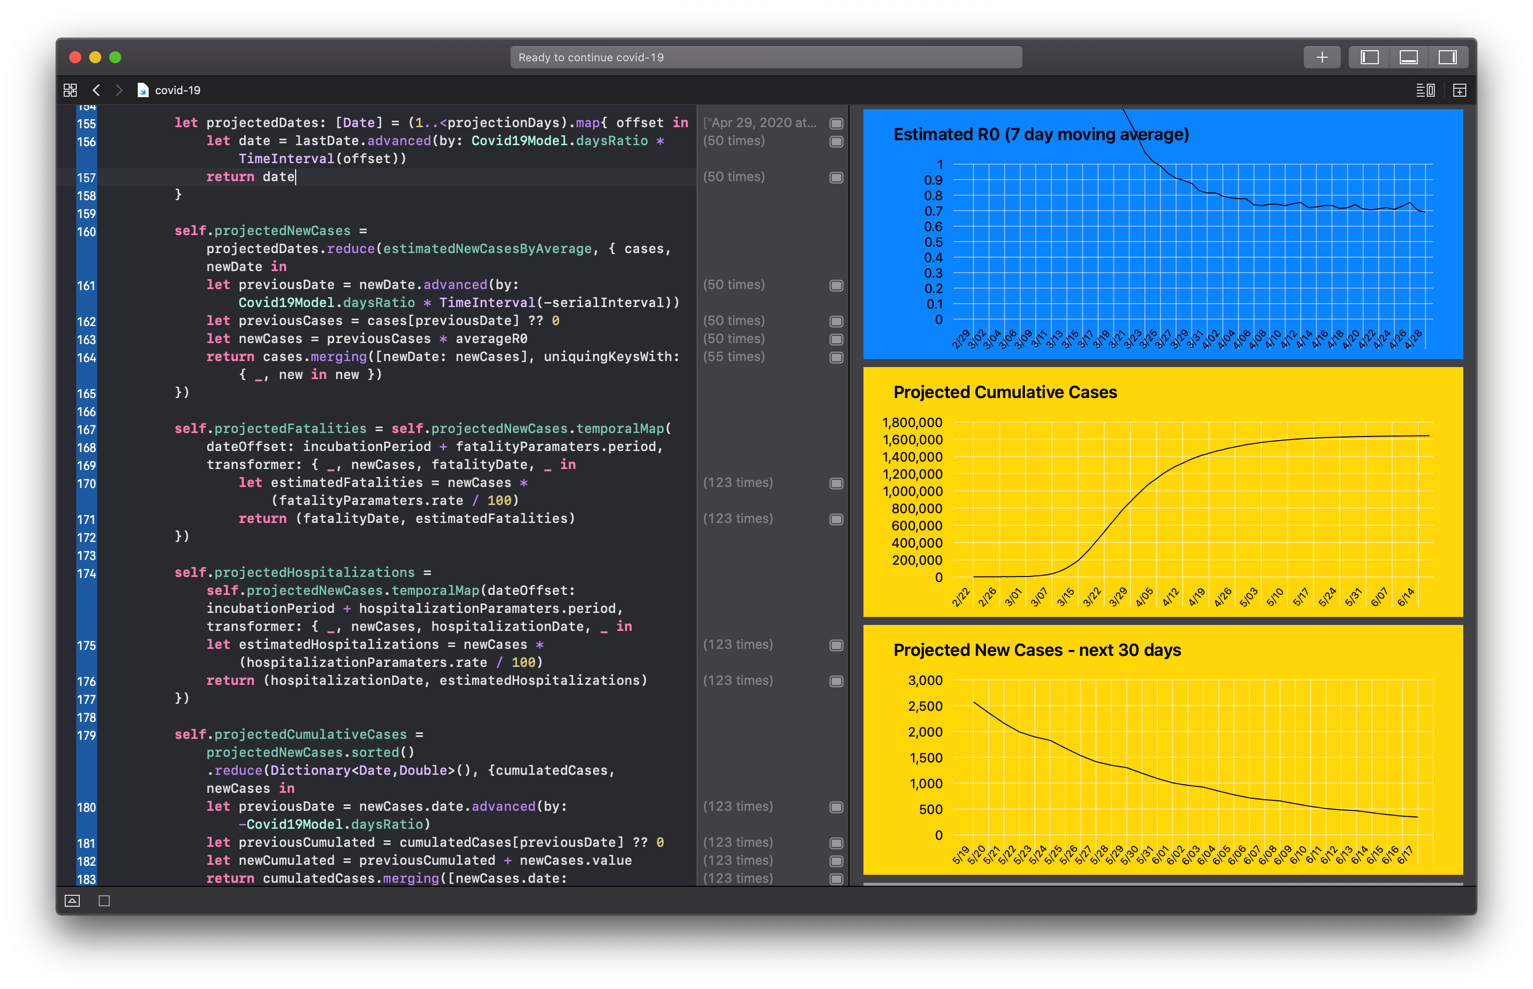
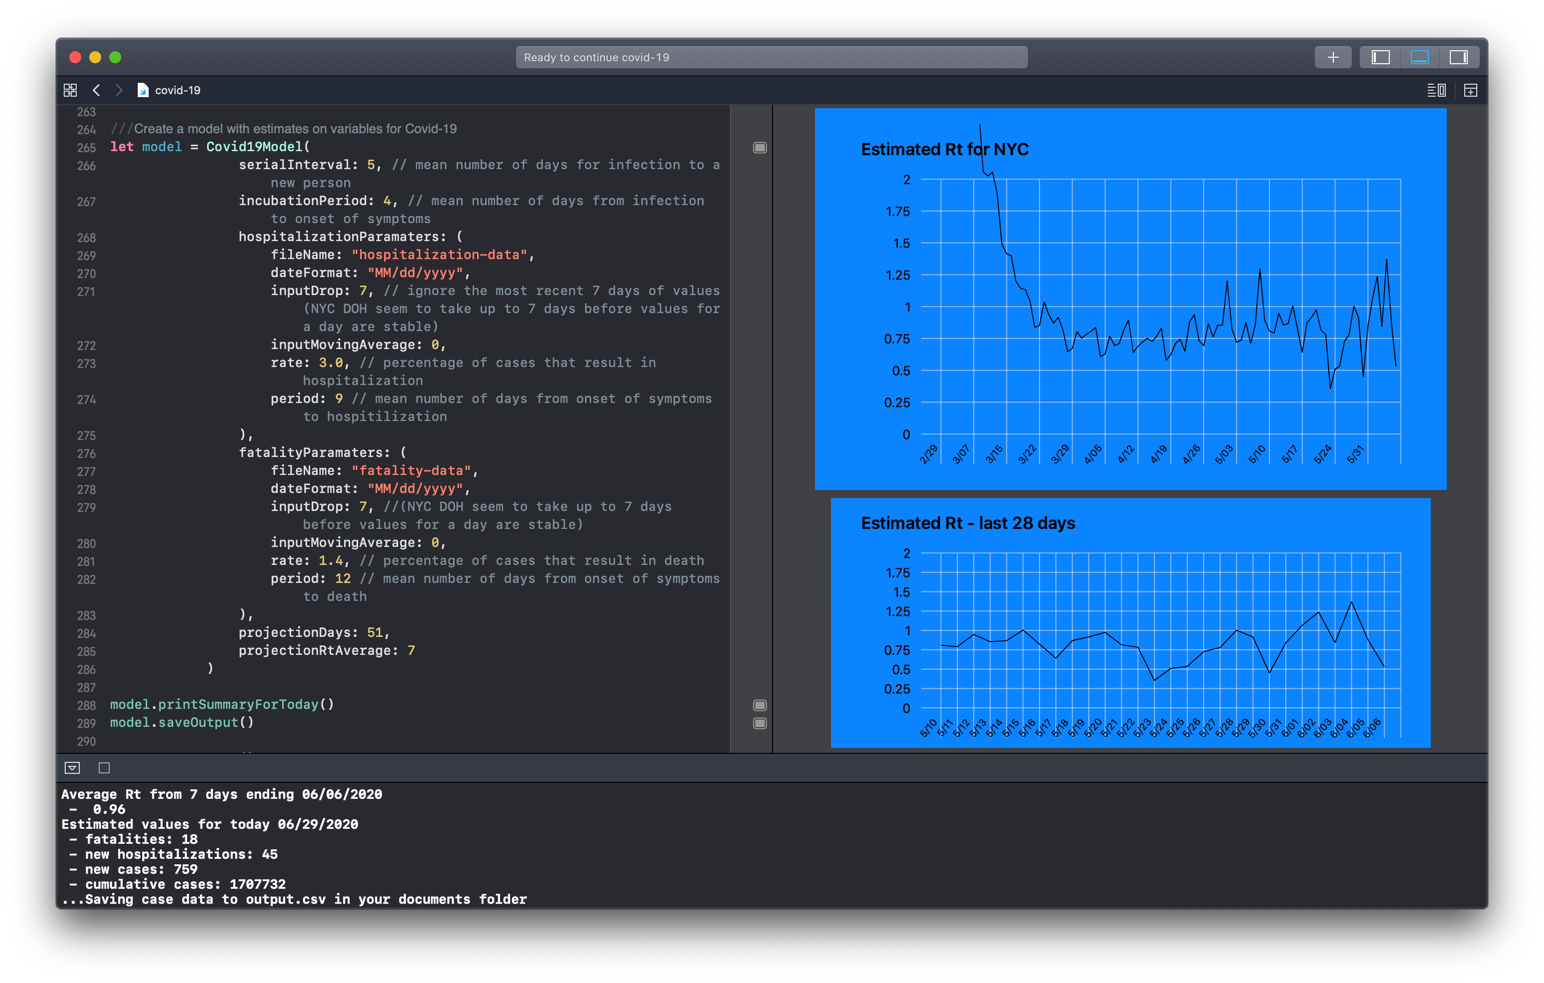
Update naming from R0 to Rt

diff --git a/covid-19.playground/Contents.swift b/covid-19.playground/Contents.swift
@@ -16,11 +16,11 @@ struct Covid19Model {
     let estimatedNewCasesByHospitalizationsRate: [Date: Double]
     let estimatedNewCasesByAverage: [Date: Double]
     
-    let estimatedR0ByFatalityRate: [Date: Double]
-    let estimatedR0ByHospitalizationsRate: [Date: Double]
-    let estimatedR0ByAverage: [Date: Double]
+    let estimatedRtByFatalityRate: [Date: Double]
+    let estimatedRtByHospitalizationsRate: [Date: Double]
+    let estimatedRtByAverage: [Date: Double]
     
-    let r0: [Date: Double]
+    let rt: [Date: Double]
     let projectedNewCases: [Date: Double]
     let projectedCumulativeCases: [Date: Double]
     let projectedFatalities: [Date: Double]
@@ -34,10 +34,10 @@ struct Covid19Model {
     // number of seconds in a day
     static let daysRatio: TimeInterval = 24*60*60
     
-    static func r0Estimator(dateToday: Date, newCasesToday: Double, dateFuture: Date, newCasesFuture: Double?) -> (Date, Double)? {
+    static func rtEstimator(dateToday: Date, newCasesToday: Double, dateFuture: Date, newCasesFuture: Double?) -> (Date, Double)? {
         if let newCasesFuture = newCasesFuture, !newCasesToday.isZero {
-            let r0 = newCasesFuture / newCasesToday
-            return (dateToday, r0)
+            let rt = newCasesFuture / newCasesToday
+            return (dateToday, rt)
         }
         return nil
     }
@@ -60,7 +60,7 @@ struct Covid19Model {
          hospitalizationParamaters: Paramaters,
          fatalityParamaters: Paramaters,
          projectionDays: Int = 30,
-         projectionR0Average: Int = 7) {
+         projectionRtAverage: Int = 7) {
                 
         self.hospitalizationParamaters = hospitalizationParamaters
         self.fatalityParamaters = fatalityParamaters
@@ -129,31 +129,31 @@ struct Covid19Model {
             return (infectionDate, newCases)
         })
         
-        self.estimatedR0ByFatalityRate = estimatedNewCasesByFatalityRate.temporalMap(
+        self.estimatedRtByFatalityRate = estimatedNewCasesByFatalityRate.temporalMap(
             dateOffset: serialInterval,
-            transformer: Covid19Model.r0Estimator
+            transformer: Covid19Model.rtEstimator
         )
         
-        self.estimatedR0ByHospitalizationsRate = estimatedNewCasesByHospitalizationsRate.temporalMap(
+        self.estimatedRtByHospitalizationsRate = estimatedNewCasesByHospitalizationsRate.temporalMap(
             dateOffset: serialInterval,
-            transformer: Covid19Model.r0Estimator
+            transformer: Covid19Model.rtEstimator
         )
         
         self.estimatedNewCasesByAverage = temporalMerger(first: self.estimatedNewCasesByFatalityRate, second: self.estimatedNewCasesByHospitalizationsRate, merger: Covid19Model.doubleDoubleMerger)
         
-        self.estimatedR0ByAverage = temporalMerger(first: self.estimatedR0ByFatalityRate, second: self.estimatedR0ByHospitalizationsRate, merger: Covid19Model.doubleDoubleMerger)
+        self.estimatedRtByAverage = temporalMerger(first: self.estimatedRtByFatalityRate, second: self.estimatedRtByHospitalizationsRate, merger: Covid19Model.doubleDoubleMerger)
                 
-        self.r0 = self.estimatedR0ByAverage
+        self.rt = self.estimatedRtByAverage
         
-        let recentR0 = self.r0.sorted().suffix(projectionR0Average)
-        let averageR0 = recentR0.map({ $0.value }).reduce(0.0, + ) / Double(projectionR0Average)
+        let recentRt = self.rt.sorted().suffix(projectionRtAverage)
+        let averageRt = recentRt.map({ $0.value }).reduce(0.0, + ) / Double(projectionRtAverage)
         
-        guard let lastDate = recentR0.last?.date else {
-            fatalError("no recent r0 dates avaiable")
+        guard let lastDate = recentRt.last?.date else {
+            fatalError("no recent Rt dates avaiable")
         }
         
-        print("Average R0 from \(projectionR0Average) days ending \(self.dateFormatter.string(from: lastDate))")
-        print(" - ", Double(Int(averageR0*100))/100)
+        print("Average Rt from \(projectionRtAverage) days ending \(self.dateFormatter.string(from: lastDate))")
+        print(" - ", Double(Int(averageRt*100))/100)
         
         let projectedDates: [Date] = (1..<projectionDays).map{ offset in
             let date = lastDate.advanced(by: Covid19Model.daysRatio * TimeInterval(offset))
@@ -164,7 +164,7 @@ struct Covid19Model {
 
             let previousDate = newDate.advanced(by: Covid19Model.daysRatio * TimeInterval(-serialInterval))
             let previousCases = cases[previousDate] ?? 0
-            let newCases = previousCases * averageR0
+            let newCases = previousCases * averageRt
             return cases.merging([newDate: newCases], uniquingKeysWith: { _, new in new })
         })
         
@@ -230,23 +230,23 @@ struct Covid19Model {
         let merged = self.projectedNewCases.temporalMerge(other: self.projectedCumulativeCases, merger: { new, cumulative in
             (new: new, cumulative: cumulative)
         })
-        .temporalMerge(other: self.r0, merger: { cases, r0 in
-            (new: cases?.new, cumulative: cases?.cumulative, r0: r0)
+        .temporalMerge(other: self.rt, merger: { cases, rt in
+            (new: cases?.new, cumulative: cases?.cumulative, rt: rt)
         })
         .temporalMerge(other: self.projectedFatalities, merger: { cases, fatalities in
-            (new: cases?.new, cumulative: cases?.cumulative, r0: cases?.r0, fatalities: fatalities)
+            (new: cases?.new, cumulative: cases?.cumulative, rt: cases?.rt, fatalities: fatalities)
         })
         let sorted = merged.sorted()
         
         // If the directory was found, we write a file to it and read it back
         if let fileURL = dir?.appendingPathComponent(fileName).appendingPathExtension("csv") {
             
-            let outString = sorted.reduce("Date, Estimated New Cases, Estimated Cumulative Cases, Estimated Estimated R0, Estimated Fatalities\n") { text, item in
+            let outString = sorted.reduce("Date, Estimated New Cases, Estimated Cumulative Cases, Estimated Estimated Rt, Estimated Fatalities\n") { text, item in
                 let components: [String] = [
                     item.date.description,
                     item.value.new?.description ?? "",
                     item.value.cumulative?.description ?? "",
-                    item.value.r0?.description ?? "",
+                    item.value.rt?.description ?? "",
                     item.value.fatalities?.description ?? ""
                 ]
                 return text + components.joined(separator: ",") + "\n"
@@ -271,7 +271,7 @@ let model = Covid19Model(
                     inputDrop: 7, // ignore the most recent 7 days of values (NYC DOH seem to take up to 7 days before values for a day are stable)
                     inputMovingAverage: 0,
                     rate: 3.0, // percentage of cases that result in hospitalization
-                    period: 7 // mean number of days from onset of symptoms to hospitilization
+                    period: 9 // mean number of days from onset of symptoms to hospitilization
                 ),
                 fatalityParamaters: (
                     fileName: "fatality-data",
@@ -279,67 +279,94 @@ let model = Covid19Model(
                     inputDrop: 7, //(NYC DOH seem to take up to 7 days before values for a day are stable)
                     inputMovingAverage: 0,
                     rate: 1.4, // percentage of cases that result in death
-                    period: 13 // mean number of days from onset of symptoms to death
+                    period: 12 // mean number of days from onset of symptoms to death
                 ),
                 projectionDays: 51,
-                projectionR0Average: 7
+                projectionRtAverage: 7
             )
 
 model.printSummaryForToday()
-//model.saveOutput()
+model.saveOutput()
 
 let today = Date()
-let earlyDate = Date(timeIntervalSince1970: 1583024400)
 
 func isAfterToday(date: Date, value: Double) -> Bool {
     return date >= today
 }
 
-func ignoreEarlyValues(date: Date, value: Double) -> Bool {
+let earlyDate = Date(timeIntervalSince1970: 1583024400)
+
+func isAfterEarlyDate(date: Date, value: Double) -> Bool {
     return date >= earlyDate
 }
+
+let projectedCases = model.projectedNewCases.sorted().suffix(51)
+let projectedCasesLastRtUntilToday = projectedCases.prefix(20)
+let projectedCasesTodayNext31Days = projectedCases.suffix(31).prefix(28)
 
 struct Charts: View {
     var body: some View {
         VStack {
             
-            Chart(data: model.estimatedNewCasesByFatalityRate.sorted(), title: "Estimated New Cases By Fatalities")
-                .frame(width: 600, height: 250)
-                .background(Color.yellow.opacity(0.5))
-            
-            Chart(data: model.estimatedNewCasesByHospitalizationsRate.sorted(), title: "Estimated New Cases By Hospitalizations")
-                .frame(width: 600, height: 250)
-                .background(Color.yellow.opacity(0.5))
-            
-            Chart(data: model.estimatedR0ByFatalityRate.sorted().filter(ignoreEarlyValues), title: "Estimated R0 By Fatality Rate")
-                .frame(width: 600, height: 250)
-                .background(Color.blue.opacity(0.5))
-            
-            Chart(data: model.estimatedR0ByHospitalizationsRate.sorted().filter(ignoreEarlyValues), title: "Estimated R0 By Hospitalization Rate")
-                .frame(width: 600, height: 250)
-                .background(Color.blue.opacity(0.5))
-            
-            Chart(data: model.r0.movingAverage(period: 7).sorted().filter(ignoreEarlyValues), title: "Estimated R0 (7 day moving average)", forceMaxValue: 1.0)
+            Group{
+                Chart(data: model.estimatedRtByFatalityRate.sorted().filter(isAfterEarlyDate), title: "Estimated Rt By Fatality Rate", forceMaxValue: 2.0)
+                    .frame(width: 600, height: 250)
+                    .background(Color.blue.opacity(0.5))
+                
+                Chart(data: model.estimatedRtByHospitalizationsRate.sorted().filter(isAfterEarlyDate), title: "Estimated Rt By Hospitalization Rate", forceMaxValue: 2.0)
+                    .frame(width: 600, height: 250)
+                    .background(Color.blue.opacity(0.5))
+                
+                Chart(data: model.rt.sorted().filter(isAfterEarlyDate), title: "Estimated Rt for NYC", forceMaxValue: 2.0)
+                    .frame(width: 600, height: 350)
+                    .padding()
+                    .background(Color.blue)
+                    
+                
+                Chart(data: model.rt.sorted().suffix(28), title: "Estimated Rt - last 28 days", forceMaxValue: 2.0)
                 .frame(width: 600, height: 250)
                 .background(Color.blue)
+            }
             
-           Chart(data: model.projectedCumulativeCases.sorted(), title: "Projected Cumulative Cases")
-               .frame(width: 600, height: 250)
-               .background(Color.yellow)
+            Group{
+                Chart(data: model.estimatedNewCasesByFatalityRate.sorted(), title: "Estimated New Cases By Fatalities")
+                    .frame(width: 600, height: 250)
+                    .background(Color.yellow.opacity(0.5))
+                
+                Chart(data: model.estimatedNewCasesByHospitalizationsRate.sorted(), title: "Estimated New Cases By Hospitalizations")
+                    .frame(width: 600, height: 250)
+                    .background(Color.yellow.opacity(0.5))
+            }
             
-            Chart(data: Array(model.projectedNewCases.movingAverage(period: 7).sorted().filter(isAfterToday).prefix(30)), title: "Projected New Cases - next 30 days")
-              .frame(width: 600, height: 250)
-              .background(Color.yellow)
+            Group {
+               Chart(data: model.projectedCumulativeCases.sorted(), title: "Projected Cumulative Cases")
+                   .frame(width: 600, height: 250)
+                   .background(Color.yellow)
+                
+                Chart(data: Array(projectedCasesLastRtUntilToday), title: "projectedCasesLastRtUntilToday")
+                    .frame(width: 600, height: 250)
+                    .background(Color.yellow)
+                
+                Chart(data: Array(projectedCasesTodayNext31Days), title: "projectedCasesTodayNext31Days")
+                .frame(width: 600, height: 250)
+                .background(Color.yellow)
+            }
+            Chart(data: Array(model.projectedFatalities.sorted()), title: "Projected Fatalities - all time")
+            .frame(width: 600, height: 250)
+            .background(Color.gray)
             
-            Chart(data: Array(model.projectedFatalities.movingAverage(period: 7).sorted().filter(isAfterToday).prefix(30)), title: "Projected Fatalities - next 30 days")
+            Chart(data: Array(model.projectedFatalities.sorted().suffix(47).prefix(28)), title: "Projected Fatalities - next 28 days")
                 .frame(width: 600, height: 250)
                 .background(Color.gray)
             
-            Chart(data: Array(model.projectedHospitalizations.sorted().filter(isAfterToday).prefix(30)), title: "Projected Hospitalizations - next 30 days")
+            Chart(data: Array(model.projectedHospitalizations.sorted().suffix(42).prefix(28)), title: "Projected Hospitalizations - next 28 days")
                 .frame(width: 600, height: 250)
                 .background(Color.green)
         }
     }
 }
-
 PlaygroundPage.current.setLiveView(Charts())
+
+dump(model.projectedNewCases.sorted())
+ 
+print(model.estimatedRtByAverage.sorted().last!)

diff --git a/README.md b/README.md
@@ -2,12 +2,12 @@
 
 This playground is a starting point for modeling Covid-19 cases based on available data on confirmed fatalities and hospitilizations due to Covid-19.
 
-This model is limited in estimating values in the near past, but uses the most recent estimated values for R0 to estimate to the current date and beyond.  
+This model is limited in estimating values in the near past, but uses the most recent estimated current Rt values to estimate to the current date and beyond.  
 
 Example:  
 * If we have data on confirmed fatalities up to April 30, and we set the incubation period as 5 days, and fatality period as 5 days, then the model will provide estimates on the number of cases up to April 20.
-* With a serial interval of 5 days, the model will provide estimates for R0 up to April 15.
-* The model will then use an average of recent R0 estimates leading up to April 15 to project values for confimed cases for April 21 and beyond. 
+* With a serial interval of 5 days, the model will provide estimates for Rt up to April 15.
+* The model will then use an average of recent Rt estimates leading up to April 15 to project values for confimed cases for April 21 and beyond. 
 
 ![Preview of chart output of covid-19 playground](playground-preview.png)
 
@@ -40,14 +40,14 @@ let model = Covid19Model(
                     period: 13 // mean number of days from onset of symptoms to death
                 ),
                 projectionDays: 51,
-                projectionR0Average: 7
+                projectionRtAverage: 7
             )
 
 ````  
 The model exposes a number of properties that returns a dictionary with Date keys and value that contains estimated and projected values for each day.  
 
 ````Swift
-model.r0 // [Date: Double?] estimated R0 for each day
+model.rt // [Date: Double?] estimated Rt for each day
 model.newCases: // [Date: Double] estimated new cases for each day
 model.cumulativeCases: // [Date: Double] estimated cumulative cases as of each day
 model.fatalities: // [Date: Double] estimated new fatalties for each day
@@ -88,16 +88,16 @@ Taking the average between the two, the default value that the model uses is a f
 Running the model prints progress, errors, and interesting values in the debug output.
 
 ````
-// default output displays latest R0 estimates 
-Average R0 from 7 days ending 04/28/2020
--  0.71
+// default output displays latest Rt estimates 
+Average Rt from 7 days ending 06/06/2020
+-  0.96
 
 // calling model.printSummary() prints estimates for today
-Estimated values for today 05/18/2020
-- fatalities: 80
-- new hospitalizations: 141
-- new cases: 2191
-- cumulative cases: 1615009
+Estimated values for today 06/29/2020
+ - fatalities: 18
+ - new hospitalizations: 45
+ - new cases: 759
+ - cumulative cases: 1707732
  
 ````
 
